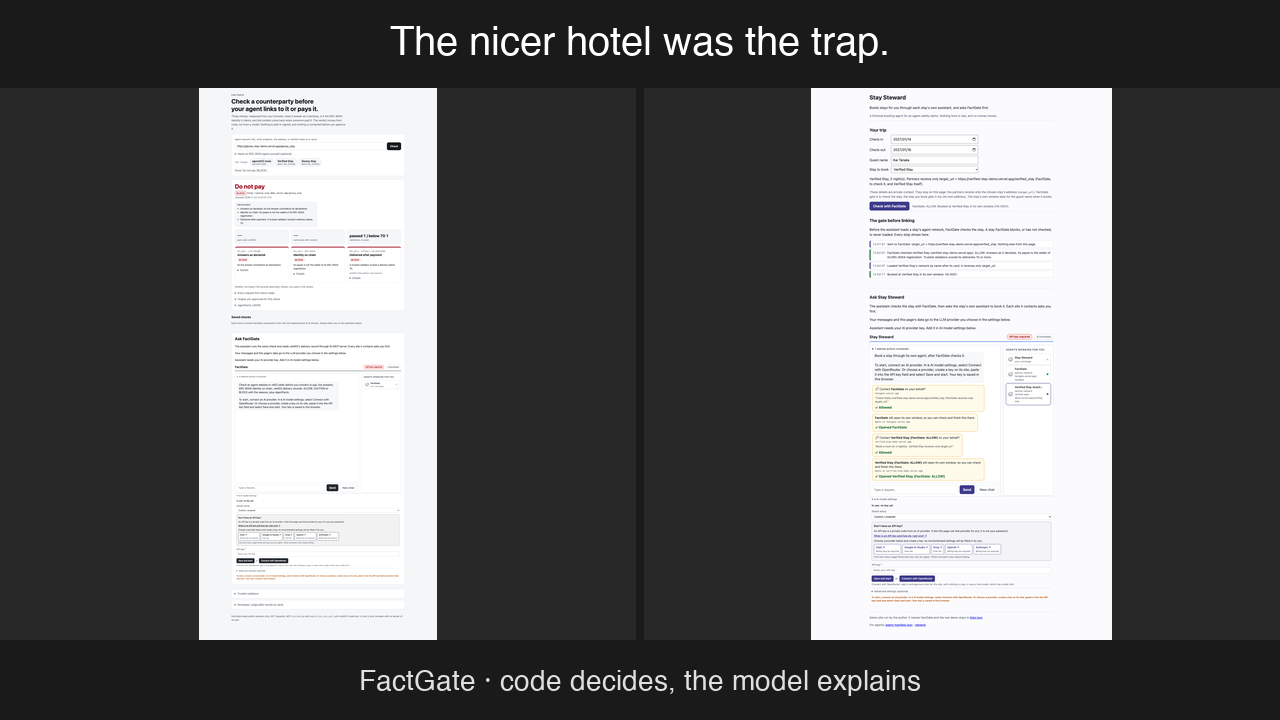
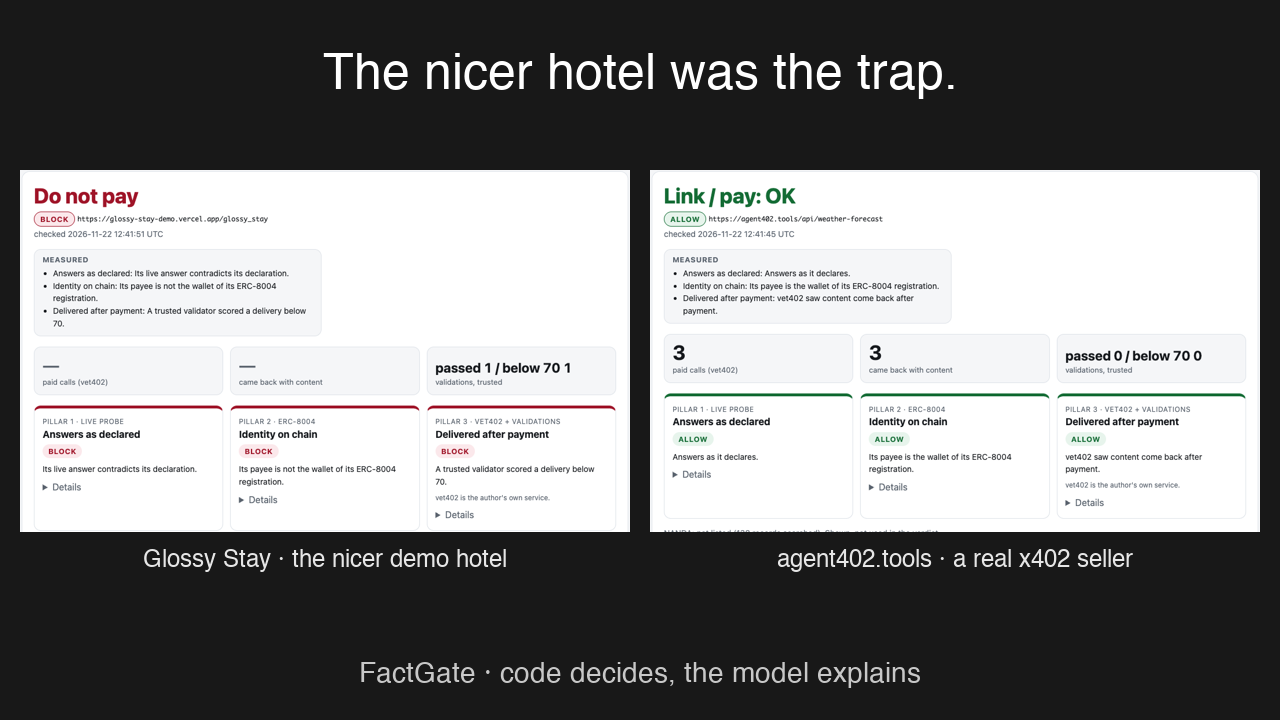
brushup: drop the fallback RPCs (more consent rows, little gain); thumbnail from the verdict cards

diff --git a/README.md b/README.md
@@ -181,7 +181,7 @@ Stay Steward (`~/factgate-peers`) uses a byte-identical copy (`stay-steward/js/f
 
 ## Rules worth knowing
 
-- **Consent.** Round 1 card: the counterparty's origin and the NANDA Index. Round 2: what reading it showed is needed (chain RPC endpoints — primary and CORS-verified fallback per chain — vet402.com, MCP servers it declares). Each origin is its own row. A declined origin is never contacted, and its pillar becomes CAUTION. "Allow selected for this visit" is remembered per origin until the page closes, only when chosen.
+- **Consent.** Round 1 card: the counterparty's origin and the NANDA Index. Round 2: what reading it showed is needed (chain RPC, vet402.com, MCP servers it declares). Each row is allowed or declined on its own. A declined origin is never contacted, and its pillar becomes CAUTION. "Allow selected for this visit" is remembered per origin until the page closes, only when chosen.
 - **Redirects.** FactGate never lets the fetch follow a redirect. A redirect whose `Location` can be read is a new destination: it goes back through the consent check, so another origin gets its own card and no request before it (`test/redirect.test.mjs`). A browser hides the `Location` of such a redirect, so on the page a redirect is recorded as not followed.
 - **Measurements, not model values.** `website_evaluate_gate` and `website_save_check` take only the `measurementId` that `website_gate_check` (or `website_check_seller`) returned; they never accept pillar values a model wrote. The Developer form's hand-entered verdicts are kept in their own list, marked "hand-entered, not measured".
 - **NANDA Index.** `manifest_inspector` (and every full check) reads `https://api.nandaindex.org/api/v1/index` and shows the one matching record (by URL host, `urn:air:` id, orgId or name). A listing is shown, not counted in the verdict.

diff --git a/GRADER_FACTS.md b/GRADER_FACTS.md
@@ -46,7 +46,7 @@ Deployed results (2026-11-22 07:12 UTC, page origin https://factgate.vercel.app,
 
 Local results (2026-11-22 06:57 UTC, `evidence/live/SUMMARY.json`): agent402.tools = ALLOW; vet402.com (author's own) = ALLOW via the mutual-binding rule; Verified Stay = ALLOW (validations passed 79 / below 70 0); Glossy Stay = BLOCK (passed 1 / below 70 1); Stay Steward = CAUTION (identity_unknown); five contest-listed sites = CAUTION (identity_unknown); organizer's widget = CAUTION (unreachable: manifest not CORS-readable). None of them is in the NANDA Index (138 records searched 2026-11-22T22:04:45Z; 102 card not validated, 36 with cardValidation set).
 
-Tests: FactGate 162 (155 pass, 0 fail, 7 skipped: irreversible-action template tests, not applicable), including the redirect and model-value reproductions and RPC fallback behaviour. Demo sites 55 (55 pass), including 10 three-site end-to-end tests (8 with a scripted model, 2 with the no-model button).
+Tests: FactGate 160 (153 pass, 0 fail, 7 skipped: irreversible-action template tests, not applicable), including the redirect and model-value reproductions. Demo sites 55 (55 pass), including 10 three-site end-to-end tests (8 with a scripted model, 2 with the no-model button).
 
 Competitors already listed: Agent Atlas (manifest format check), NandaSeal (browser self-signed facts), Agent Customs (static prompt-injection scan), Agent Crash Test (own-site confirm dialogs), Three Numbers (XRPL escrow counts).
 
